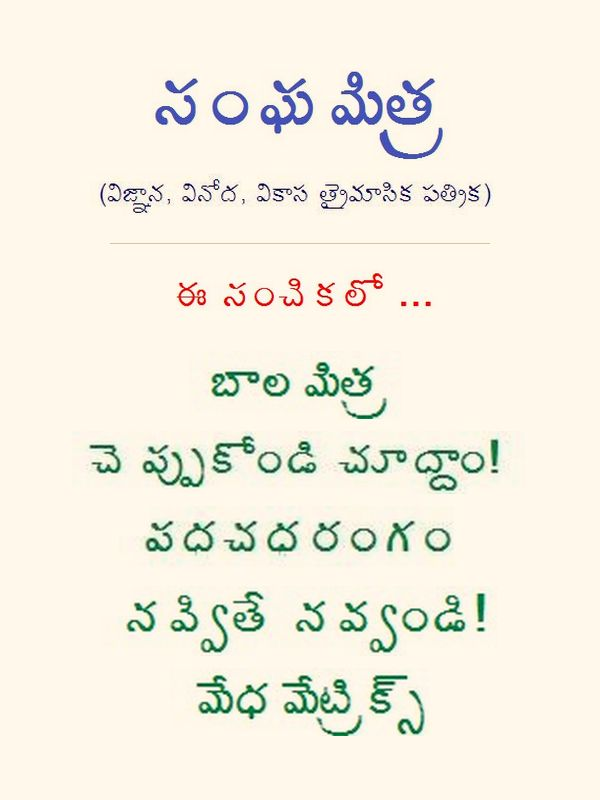
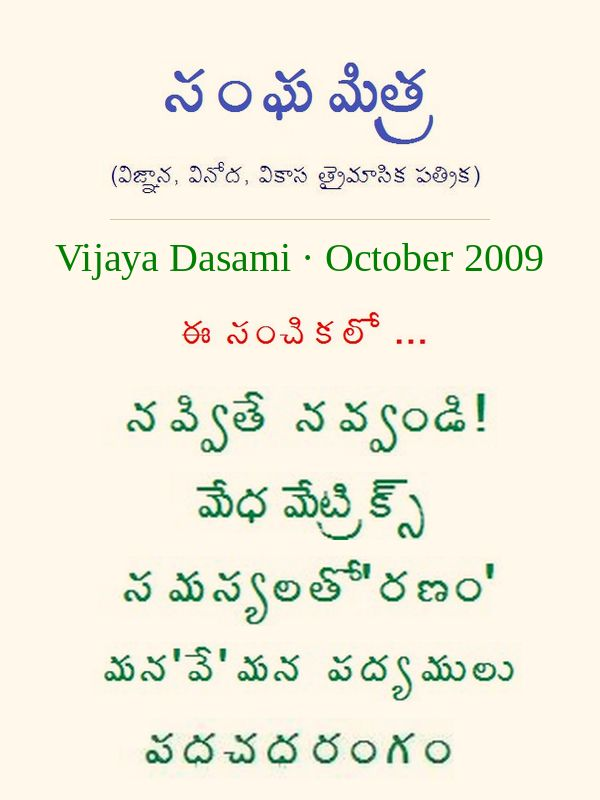
Make the mail sender configurable, and record why codes stopped arriving
Sign-in codes were accepted by Resend and never delivered from 30 August onward. The cause is the
sending domain's DNS, not the provider or the code: learnerscohort.com publishes DMARC p=quarantine
while having NO SPF record at all. A message that fails SPF under a quarantine policy is dropped,
which is exactly what a search of the recipient's mail shows, including spam and trash.

The address now comes from MAIL_FROM when set, so moving to a domain that authenticates is a
configuration change rather than a code change. The reasoning is written next to the function so the
next person does not have to rediscover it.

diff --git a/functions/lib/email.js b/functions/lib/email.js
@@ -4,8 +4,16 @@ import { BUILDER_EMAIL, OWNER_EMAIL, ownerAskHtml, ownerAskText } from "./owner-
 // When sanghamitra.org moves off Network Solutions and is verified with the mail
 // provider, this becomes sanghamitra@sanghamitra.org and nothing else changes.
 export const SENDER_ADDRESS = "sanghamitra@learnerscohort.com";
-const SENDER_RESEND = `Sanghamitra <${SENDER_ADDRESS}>`;
-const SENDER_BREVO = { name: "Sanghamitra", email: SENDER_ADDRESS };
+
+// The address mail goes out as, overridable per environment with MAIL_FROM. Deliverability depends on
+// the sending DOMAIN's DNS, not on the provider: it needs an SPF record and a DKIM key, and it must
+// satisfy whatever DMARC policy the domain publishes. On 9 September 2026 learnerscohort.com had a
+// DKIM key but NO SPF record at all while publishing DMARC p=quarantine, and every sign-in code sent
+// from it since 30 August was accepted by the provider and never delivered. Switching domains is
+// therefore a config change, not a code change.
+function senderAddress(env) {
+  return (env && env.MAIL_FROM ? String(env.MAIL_FROM).trim() : "") || SENDER_ADDRESS;
+}
 
 async function postJson(url, headers, body) {
   const res = await fetch(url, {
@@ -34,7 +42,7 @@ export async function sendMail(env, { to, cc, subject, text, html }) {
     // support@agreements.co.in (a different business) and a dead placeholder, so a
     // person who wrote to Sanghamitra could get an answer branded as someone else.
     {
-      const from = SENDER_RESEND;
+      const from = `Sanghamitra <${senderAddress(env)}>`;
       const payload = { from, to: recipients, subject, text, html };
       if (copies.length) payload.cc = copies;
       const ok = await postJson(
@@ -51,7 +59,7 @@ export async function sendMail(env, { to, cc, subject, text, html }) {
 
   if (env.BREVO_API_KEY) {
     {
-      const sender = SENDER_BREVO;
+      const sender = { name: "Sanghamitra", email: senderAddress(env) };
       const payload = {
         sender,
         to: recipients.map((email) => ({ email })),

diff --git a/site/community-service.html b/site/community-service.html
@@ -84,9 +84,9 @@
       </section>
 
       <section class="section" id="archive" style="padding-top:0" aria-labelledby="cs-archive-h">
-        <p class="kicker" data-i18n="cs.archive.k">From the old site</p>
+        <p class="kicker" data-i18n="cs.archive.k">From the albums</p>
         <h2 id="cs-archive-h" data-i18n="cs.archive.h">Service the community has already seen, 2009 to 2014.</h2>
-        <p class="lede" data-i18n="cs.archive.lede">Four photographs that ran on the old sanghamitra.org, in his own captions: the North America Telugu Society's award for community service, and free presentations for a temple, a library and a community hall.</p>
+        <p class="lede" data-i18n="cs.archive.lede">Four photographs, with Sreenivasa's captions: the North America Telugu Society's award for community service, and free presentations for a temple, a library and a community hall.</p>
         <div class="archive-gallery">
           <figure>
             <img src="img/archive/kal_8008-1.jpg" alt="While receiving award for community services from North America Telugu Society on January 27th, 2013" loading="lazy" width="381" height="253" style="object-fit:contain">

diff --git a/site/vedic-mathematics.html b/site/vedic-mathematics.html
@@ -8,7 +8,7 @@
   <meta property="og:type" content="website">
   <meta property="og:site_name" content="Sanghamitra">
   <meta property="og:title" content="Vedic Mathematics · Sanghamitra">
-  <meta property="og:description" content="Mental calculation without paper or a calculator. Try the cube-root and squaring drills from his old site.">
+  <meta property="og:description" content="Mental calculation without paper or a calculator. Try the cube-root and squaring drills yourself, and see how Sreenivasa Ainapurapu teaches them.">
   <meta property="og:url" content="https://sanghamitra.pages.dev/vedic-mathematics.html">
   <meta property="og:image" content="https://sanghamitra.pages.dev/img/medhavadhanam-2026-st-louis-group.jpg">
   <meta name="twitter:card" content="summary_large_image">

diff --git a/site/talks.html b/site/talks.html
@@ -81,7 +81,7 @@
       <section class="section" id="rooms" style="padding-top:1.5rem;padding-bottom:0" aria-labelledby="rooms-h">
         <p class="kicker">Rooms he has spoken in</p>
         <h2 id="rooms-h">A temple, a library, a campus, a hall, a living room.</h2>
-        <p class="lede">Five photographs from the old sanghamitra.org, in his own captions. The room changes; the hour does not.</p>
+        <p class="lede">Five photographs, with Sreenivasa’s captions. The room changes; the hour does not.</p>
         <div class="archive-gallery">
           <figure>
             <img src="img/archive/stl2014_audience.jpg" alt="Medhavadhanam 2014 @ Hindu temple of St. Louis - Audience experiencing the presentation" loading="lazy" width="1600" height="900">

diff --git a/site/events.html b/site/events.html
@@ -99,9 +99,9 @@
           </div>
 
           <section id="archive-years" aria-labelledby="archive-years-h">
-            <p class="kicker">Earlier years, from the old site</p>
-            <h2 id="archive-years-h">2007 to 2015, in his own captions.</h2>
-            <p class="muted">Photographs recovered from the sanghamitra.org slideshow. Programs, audiences, one award.</p>
+            <p class="kicker">Earlier years</p>
+            <h2 id="archive-years-h">2007 to 2015, in Sreenivasa’s own captions.</h2>
+            <p class="muted">Programs, audiences and one award, from Sanghamitra’s own albums.</p>
             <section class="year-group">
               <h2>2015</h2>
               <div class="archive-gallery">

diff --git a/tools/magazine/covers.py b/tools/magazine/covers.py
@@ -19,9 +19,9 @@ rendered page before it becomes an image, the same list redact.py works from.
 Writes site/magazine/img/covers/<issue-id>.jpg and site/data/magazine-covers.json, which
 generate.py reads. Re-run it after recovering more of an issue: a page beats a contents card.
 """
-import json, os, re, sys, io
+import json, os, re, sys, io, collections
 import pymupdf
-from PIL import Image, ImageChops
+from PIL import Image, ImageChops, ImageDraw, ImageFont
 
 ROOT = os.path.dirname(os.path.dirname(os.path.dirname(os.path.abspath(__file__))))
 SITE = os.path.join(ROOT, "site")
@@ -32,6 +32,10 @@ OUT = os.path.join(IMG, "covers")
 W, H = 600, 800          # 3:4, the shape the cards are cut to
 PAPER = (255, 248, 235)  # --card, so a built cover sits on the same paper as the page
 RULE = (212, 196, 164)   # --line
+HIS_GREEN = (0, 128, 0)  # the green his own contents pages printed the month in
+SERIF = "/usr/share/fonts/truetype/liberation/LiberationSerif-Regular.ttf"
+MONTHS = ["", "January", "February", "March", "April", "May", "June", "July",
+          "August", "September", "October", "November", "December"]
 
 # His own street addresses, landlines and old mailboxes, plus the bare ZIP that survives
 # redaction because it sits on its own line. The WhatsApp number stays: it is public.
@@ -69,38 +73,57 @@ def rule(card, y, inset=110):
         card.putpixel((xx, y), RULE)
 
 
+def draw_line(card, text, y, size, colour):
+    """The month and year, in the green his own contents pages printed it in. It is the one thing
+    that is different on every issue's page, so it is what keeps these cards apart."""
+    try:
+        font = ImageFont.truetype(SERIF, size)
+    except OSError:
+        font = ImageFont.load_default()
+    d = ImageDraw.Draw(card)
+    box = d.textbbox((0, 0), text, font=font)
+    d.text(((W - (box[2] - box[0])) // 2 - box[0], y - box[1]), text, font=font, fill=colour)
+    return box[3] - box[1]
+
+
+def date_line(issue):
+    season = issue.get("season")
+    month = f"{MONTHS[issue['month']]} {issue['year']}"
+    return f"{season} · {month}" if season and season not in month else month
+
+
 def contents_card(issue, headings):
-    """His contents page, rebuilt from its own parts: the title block, 'in this issue', and the
-    column headings that issue actually carried, in the order his page listed them."""
+    """His contents page, rebuilt from its own parts: the title block, the month in his green,
+    'in this issue', and the column headings that issue carried."""
     card = Image.new("RGB", (W, H), PAPER)
-    y = 54
-    y += paste_art(card, "samghamitra_title.jpg", y, int(W * 0.60)) + 12
-    y += paste_art(card, "samghamitra_motto.jpg", y, int(W * 0.70)) + 26
-    rule(card, y); y += 26
-    y += paste_art(card, "indexlist.jpg", y, int(W * 0.46)) + 26
-    # Fill the page the way his did: as many of that issue's headings as fit, in his order.
-    # The later entries are where issues differ from each other, so err on the side of more.
+    y = 46
+    y += paste_art(card, "samghamitra_title.jpg", y, int(W * 0.56)) + 10
+    y += paste_art(card, "samghamitra_motto.jpg", y, int(W * 0.66)) + 22
+    rule(card, y); y += 24
+    y += draw_line(card, date_line(issue), y, 40, HIS_GREEN) + 28
+    y += paste_art(card, "indexlist.jpg", y, int(W * 0.44)) + 24
     room = H - 52 - y
-    n = min(len(headings), max(4, room // 56))
+    n = min(len(headings), max(3, room // 60))
     gap = max(6, (room - n * 44) // max(1, n))
     for h in headings[:n]:
-        h_px = paste_art(card, h, y, int(W * 0.76))
+        h_px = paste_art(card, h, y, int(W * 0.74))
         if not h_px:
             continue
         y += h_px + gap
-        if y > H - 70:
+        if y > H - 66:
             break
     return card
 
 
-def name_card():
-    """Nothing of these issues survives but the name. The magazine's own title block stands for
-    it — borrowed from the masthead every issue carried, which the caption says out loud."""
+def name_card(issue):
+    """Nothing of these issues survives but the name and the date. The site banner he used across
+    the whole magazine stands in, with the issue's own date under it — and the caption says so."""
     card = Image.new("RGB", (W, H), PAPER)
-    y = H // 2 - 130
-    y += paste_art(card, "samghamitra_title.jpg", y, int(W * 0.74), scale_cap=2.4) + 18
-    y += paste_art(card, "samghamitra_motto.jpg", y, int(W * 0.80), scale_cap=2.4) + 34
-    rule(card, y)
+    y = H // 2 - 190
+    y += paste_art(card, "new_title.jpg", y, int(W * 0.84), scale_cap=1.2) + 40
+    rule(card, y); y += 34
+    y += draw_line(card, date_line(issue), y, 44, HIS_GREEN) + 26
+    draw_line(card, "no copy survives", y, 26, (110, 96, 78))
     return card
 
 
@@ -131,6 +154,10 @@ def build():
     os.makedirs(OUT, exist_ok=True)
     have_img = set(os.listdir(IMG))
     built, redacted = {}, []
+    # How many issues carry each column heading — the rarer ones are what make a card its own.
+    shared = collections.Counter()
+    for iss in data["issues"]:
+        shared.update({it["heading_img"] for it in iss["items"] if it.get("heading_img")})
 
     for issue in data["issues"]:
         iid = issue["id"]
@@ -169,11 +196,16 @@ def build():
                 h = it.get("heading_img")
                 if h and h not in seen and h in have_img:
                     seen.add(h); headings.append(h)
+            # He ran the same columns every quarter, so leading with his order gives nine cards
+            # that look alike. Lead instead with the headings this issue does not share with the
+            # others, keeping his order inside each group. Same art, same issue, distinct card.
+            order = {h: n for n, h in enumerate(headings)}
+            headings.sort(key=lambda h: (shared[h], order[h]))
             if len(headings) >= 3:
                 im, kind = contents_card(issue, headings), "contents"
                 note = "The column headings from this issue's own contents page. Its articles were never captured."
             else:
-                im, kind = name_card(), "name"
+                im, kind = name_card(issue), "name"
                 note = "Nothing of this issue survives but its name, so the magazine's own title block stands in."
         im.save(dst, quality=80, optimize=True, progressive=True)
         built[iid] = {"src": rel, "kind": kind, "note": note}
